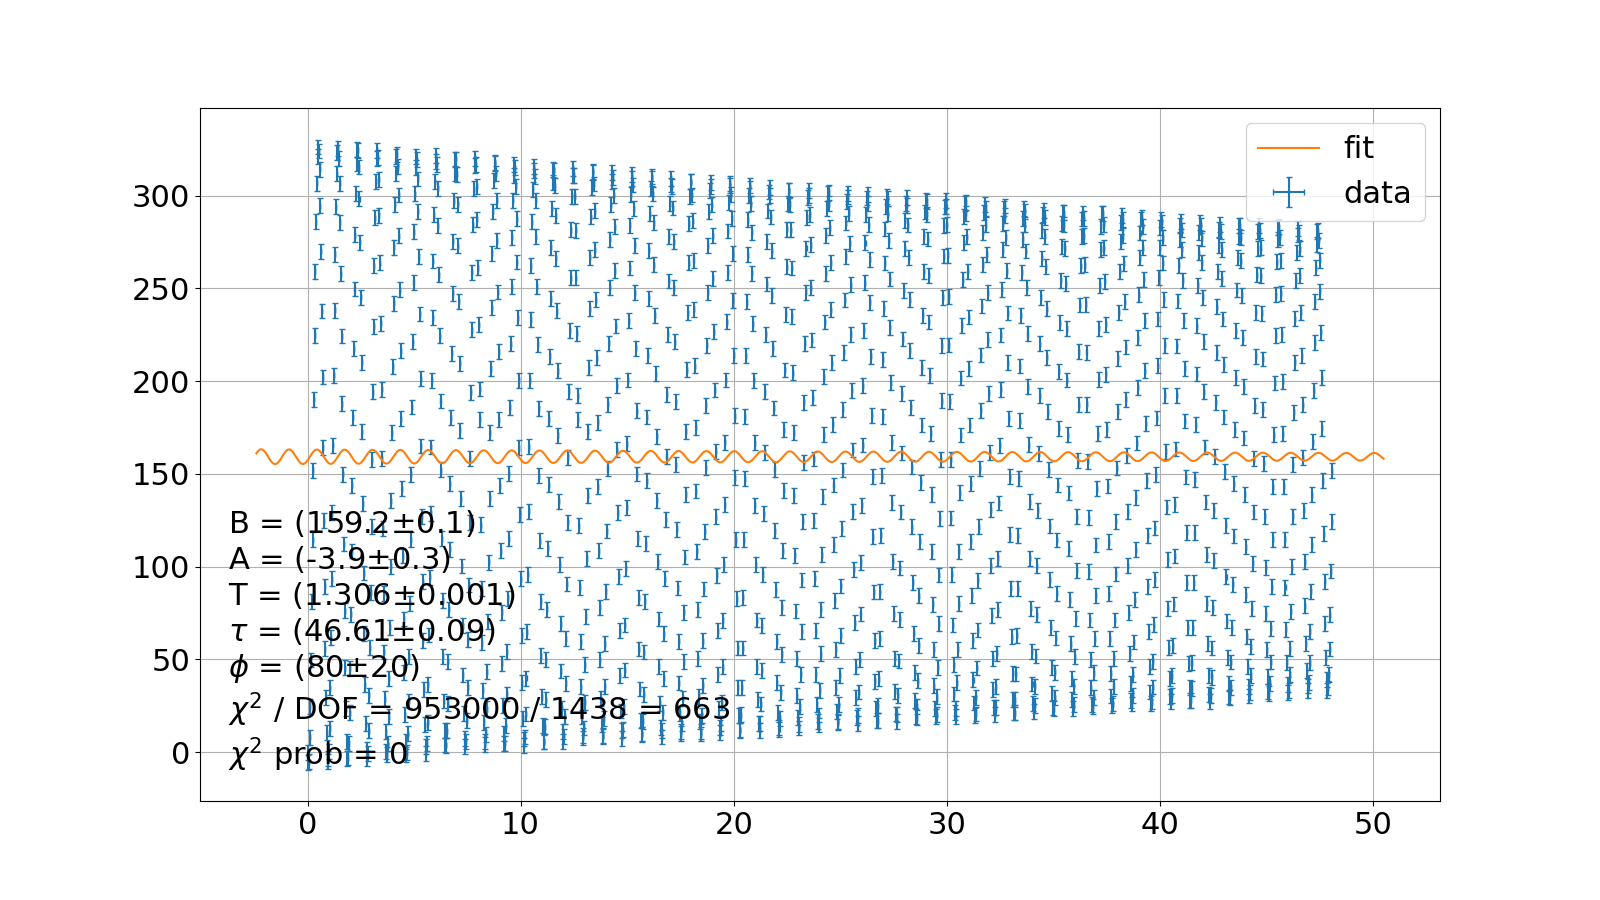
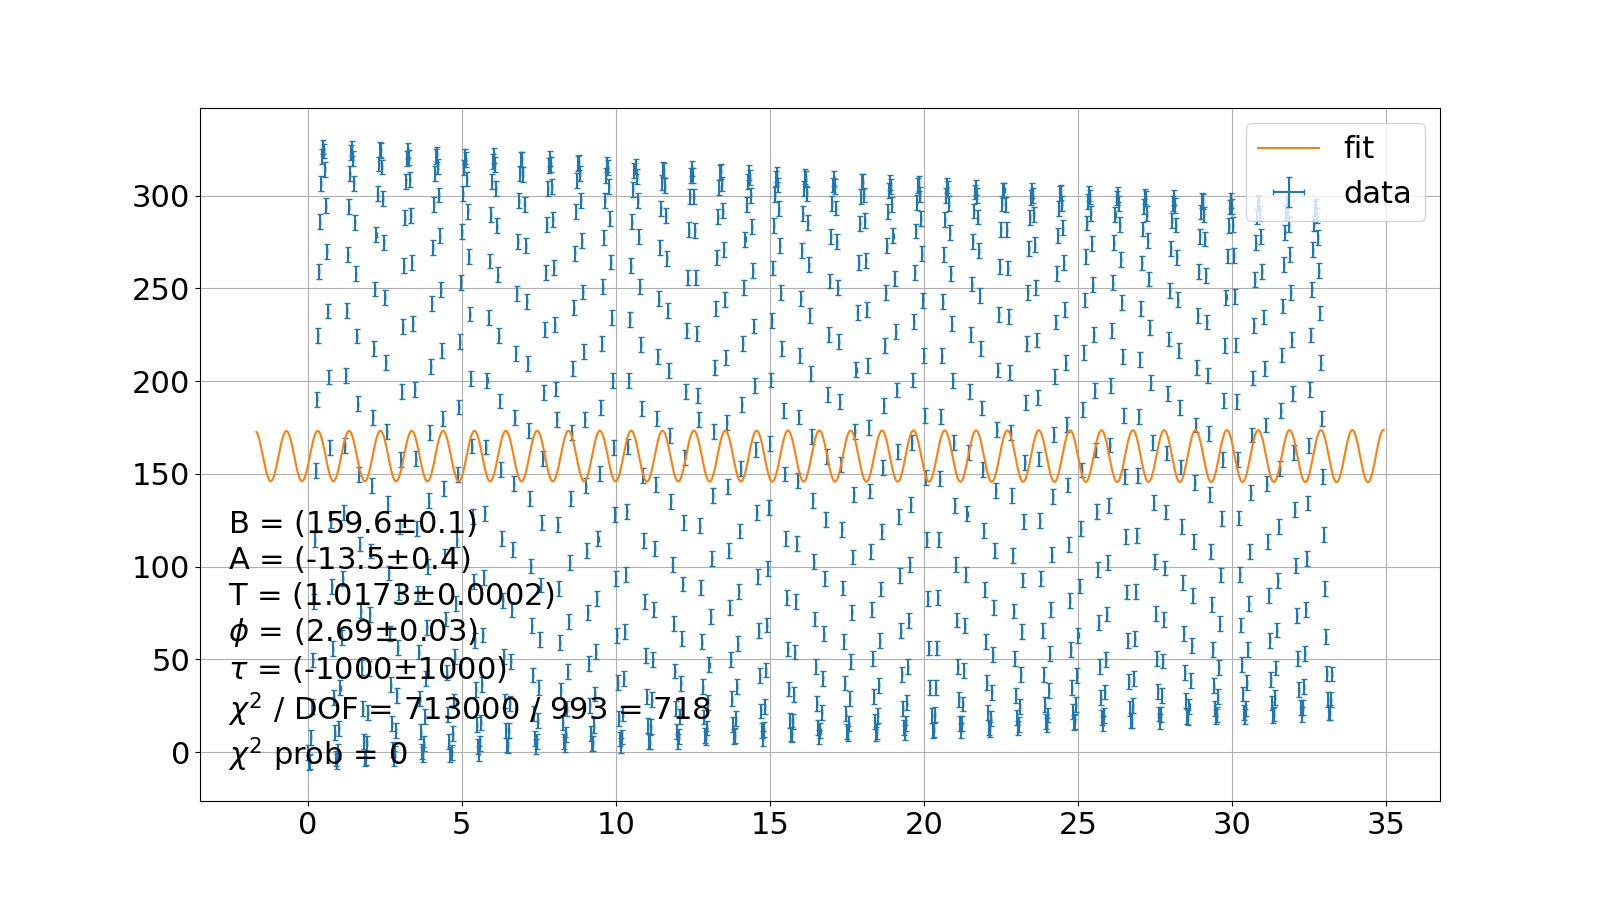
fixed parameter names order

diff --git a/main.py b/main.py
@@ -16,9 +16,12 @@ def run_main(filename, show=False, save=False):
     data = data_loader.DataLoader(filename)
     model = fit_models.DecayingSinusoid()
 
-
-    fit = fitting.Fitting(model=model, x=data.x, x_error=data.x_error, y_measured=data.y, y_error=data.y_error,
-                          units_for_parameters=('', '', '', '', ''), p0=(150, 100, 1, 1.5, 50))
+    try:
+        fit = fitting.Fitting(model=model, x=data.x, x_error=data.x_error, y_measured=data.y, y_error=data.y_error,
+                              units_for_parameters=('', '', '', '', ''), p0=(150, 100, 1, 1.5, 50))
+    except RuntimeError:
+        fit = fitting.Fitting(model=model, x=data.x, x_error=data.x_error, y_measured=data.y, y_error=data.y_error,
+                              units_for_parameters=('', '', '', '', ''), p0=(150, 100, 1, -1.5, 50))
 
     fig, ax = plt.subplots(1, 1, figsize=(16, 9))
 

diff --git a/fitting.py b/fitting.py
@@ -21,7 +21,7 @@ class Fitting():
         self.y_error = y_error
 
         if hasattr(model, 'parameter_bounds'):
-            self.popt, self.pcov = curve_fit(self.model, self.x, self.y_measured, sigma=y_error, absolute_sigma=True, p0=p0, bounds=model.parameter_bounds, maxfev=100000, method='trf', verbose=1)
+            self.popt, self.pcov = curve_fit(self.model, self.x, self.y_measured, sigma=y_error, absolute_sigma=True, p0=p0, bounds=model.parameter_bounds, maxfev=100000, method='trf')
         else:
             self.popt, self.pcov = curve_fit(self.model, self.x, self.y_measured, sigma=y_error, absolute_sigma=True, p0=p0, maxfev=100000)
 

diff --git a/fitted_models.py b/fitted_models.py
@@ -54,7 +54,7 @@ class DecayingSinusoid():
         
         self.function = fit_models.DecayingSinusoid()
         self.number_of_parameters = self.function.number_of_parameters
-        self.parameter_names = ('B', 'A', 'T', r'$\tau$', '$\phi$')
+        self.parameter_names = ('B', 'A', 'T', r'$\phi$', r'$\tau$')
         self.units_for_parameters = units_for_parameters
         
         self.parameter_info_list = [str(self.parameter_names[i]) + ' = (' + Output.print_with_uncertainty(self.popt[i], parameter_errors[i]) + ') ' + self.units_for_parameters[i] for i in range(self.number_of_parameters)]

diff --git a/fit_models.py b/fit_models.py
@@ -32,7 +32,7 @@ class DecayingSinusoid():
     def __init__(self):
         self.number_of_parameters = 5
         self.CorrespondingFittedFunction = fitted_models.DecayingSinusoid
-        self.parameter_bounds = ([-np.inf, -np.inf, -np.inf, -1, -np.inf], [np.inf, np.inf, np.inf, 20*np.pi, np.inf])
+        self.parameter_bounds = ([-np.inf, 0, 0, 0, 0], [np.inf, np.inf, np.inf, 2*np.pi, np.inf])
         
     def __call__(self, t, base, amplitude, period, phase, decay_constant):
         result = base + np.exp(-t / decay_constant) * amplitude * np.sin((2*np.pi / period) * t + phase)

diff --git a/data_loader.py b/data_loader.py
@@ -8,7 +8,7 @@ class DataLoader():
         # directory = filename
         file = open(directory, 'r')
         raw_data = file.read()
-        raw_data = raw_data.split('\n')[2:500]
+        raw_data = raw_data.split('\n')[2:1000]
         raw_data = [row.split('\t') for row in raw_data]
         raw_data = [['0' if entry == '' else entry for entry in row] for row in raw_data]
         raw_data = [[float(entry) for entry in row] for row in raw_data]
